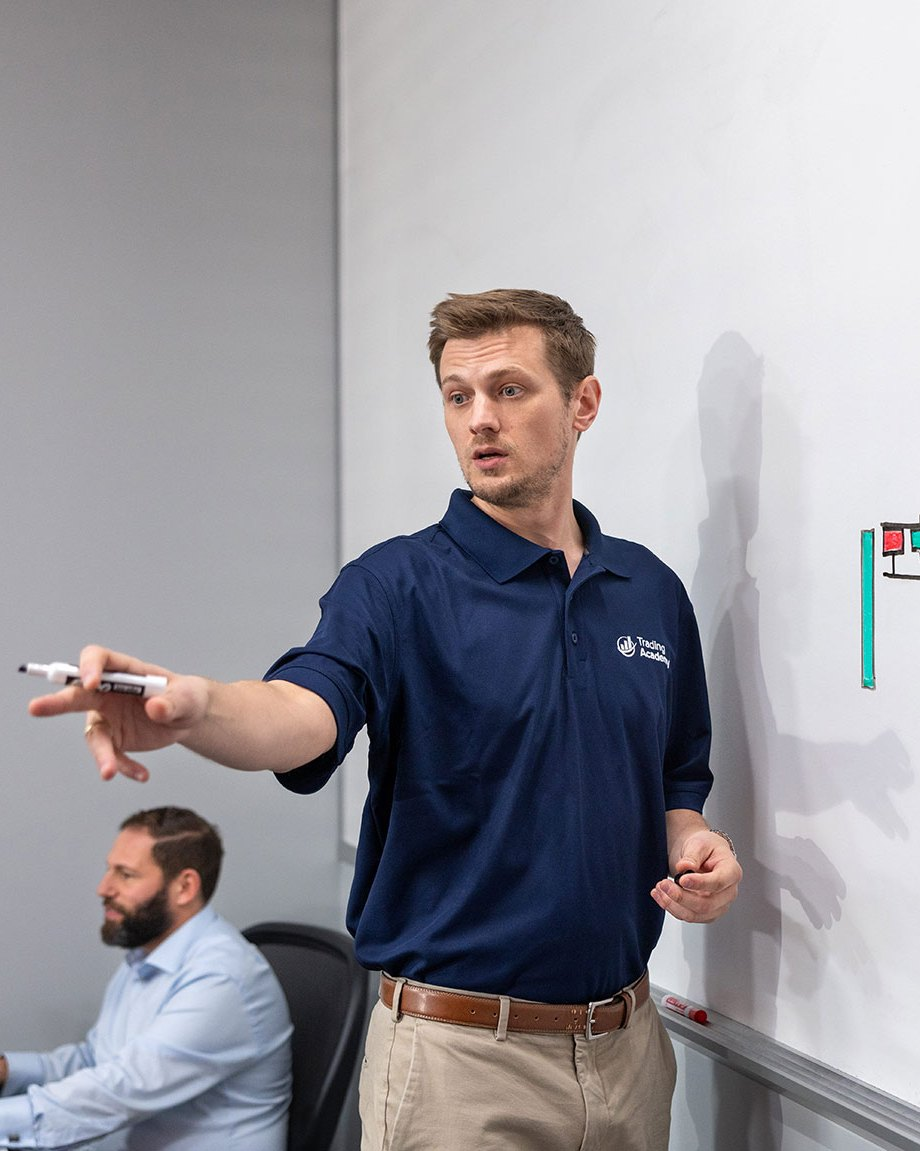
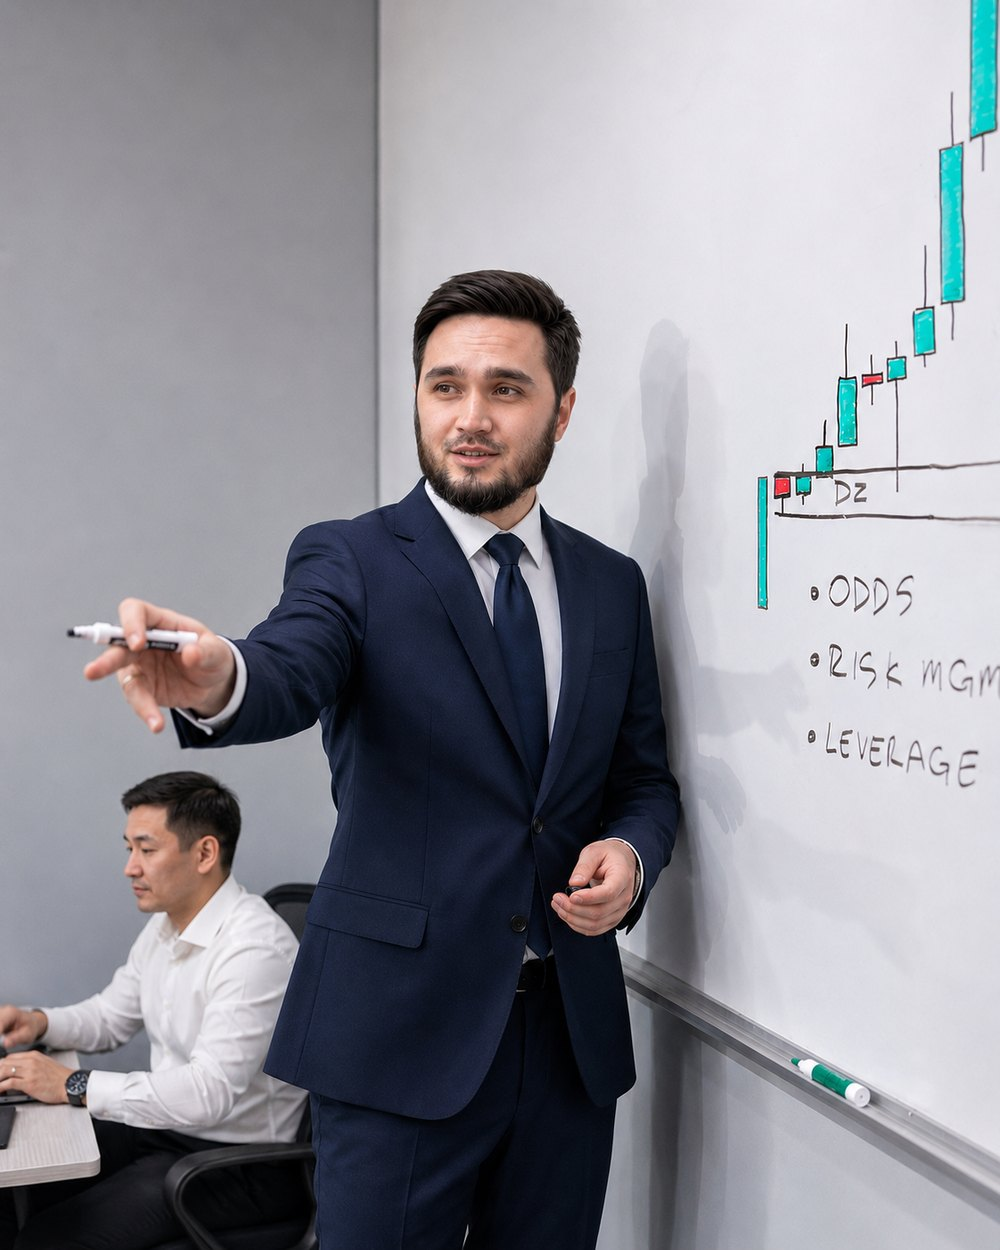
new speaker photo

diff --git a/index.html b/index.html
@@ -14,7 +14,7 @@
 <link rel="preconnect" href="https://fonts.gstatic.com" crossorigin>
 <link href="https://fonts.googleapis.com/css2?family=Inter:wght@400;500;600;700;800;900&display=swap" rel="stylesheet">
 <link rel="stylesheet" href="https://cdn.jsdelivr.net/npm/intl-tel-input@18.5.3/build/css/intlTelInput.min.css">
-<link rel="stylesheet" href="styles.css?v=43">
+<link rel="stylesheet" href="styles.css?v=44">
 </head>
 <body>
 
@@ -311,7 +311,7 @@
       <div class="author__media">
         <picture class="author__pic">
           <source srcset="img/author.webp" type="image/webp">
-          <img src="img/author.jpg" width="920" height="1151" alt="Преподаватель академии разбирает структуру рынка" loading="lazy" decoding="async">
+          <img src="img/author.jpg" width="1000" height="1250" alt="Преподаватель академии разбирает структуру рынка" loading="lazy" decoding="async">
         </picture>
       </div>
 
@@ -800,6 +800,6 @@
 </footer>
 
 <script src="https://cdn.jsdelivr.net/npm/intl-tel-input@18.5.3/build/js/intlTelInput.min.js"></script>
-<script src="script.js?v=43"></script>
+<script src="script.js?v=44"></script>
 </body>
 </html>
